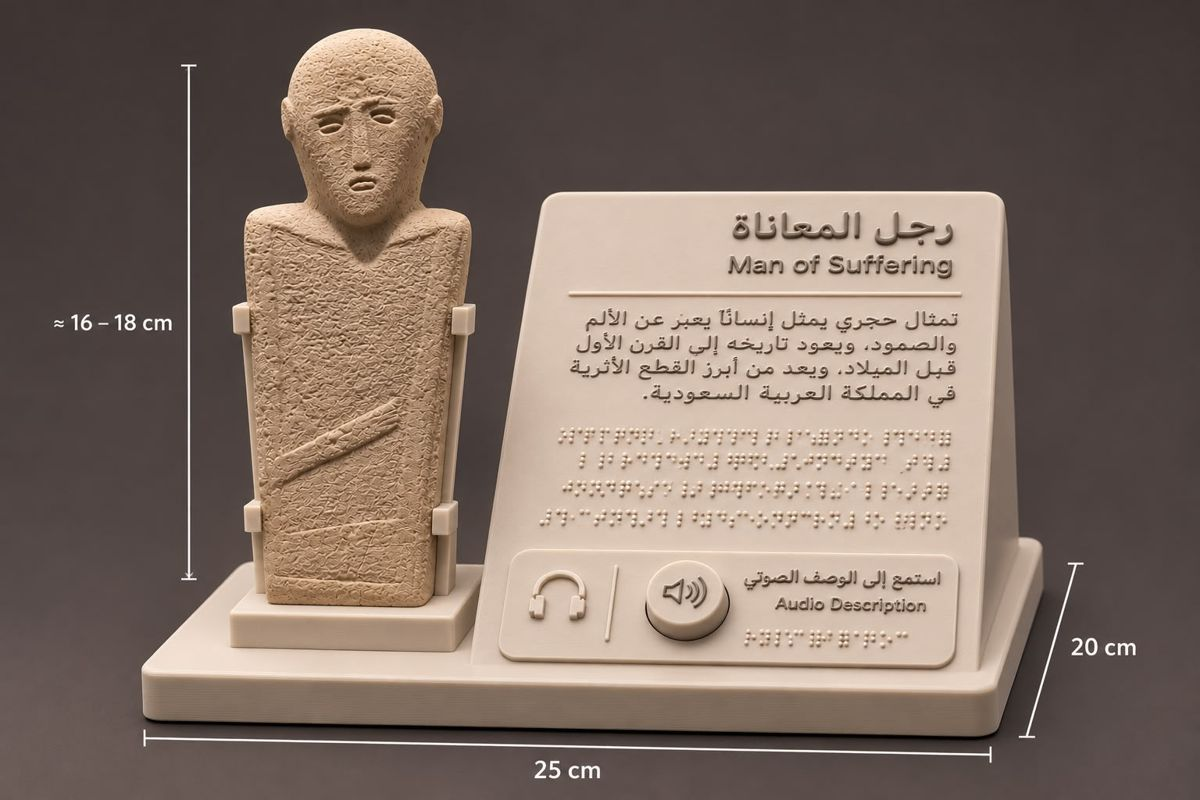
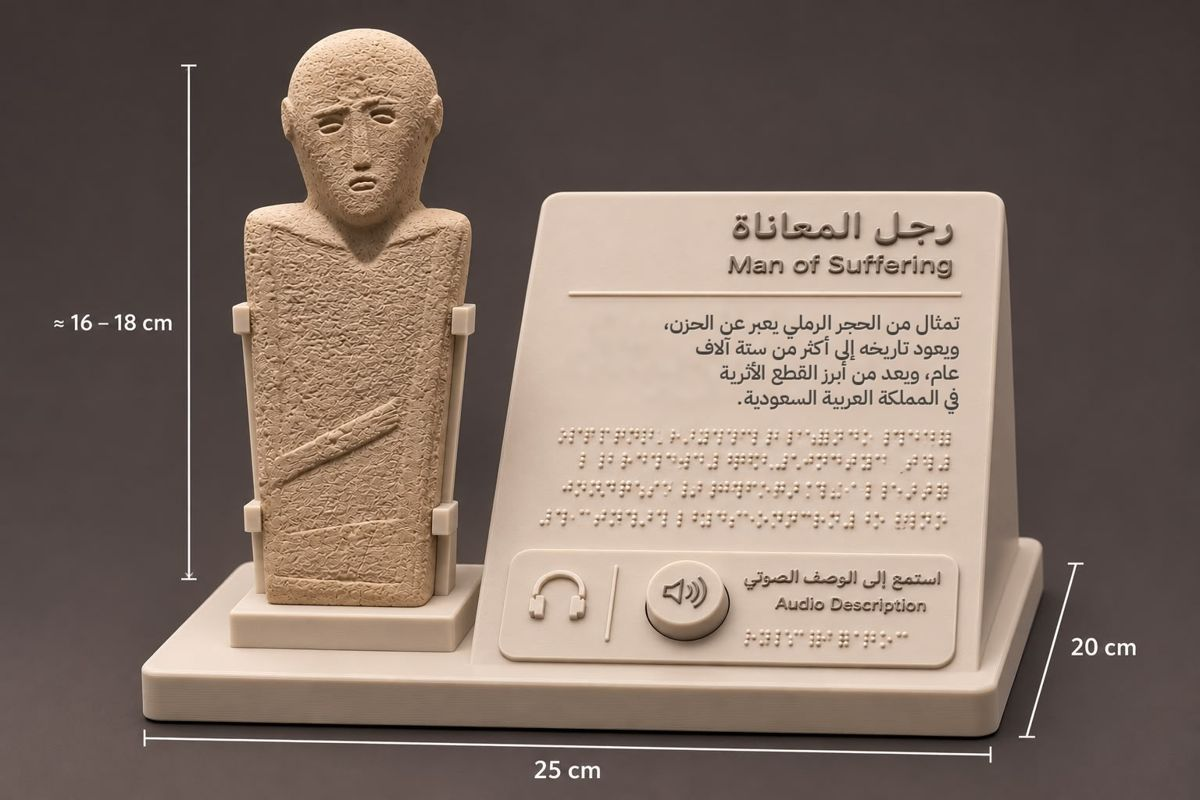
تصحيح تاريخ القطعة في نص اللوحة

Changed region(s): [[0.4625, 0.375, 0.8017, 0.5312]]

diff --git a/index.html b/index.html
@@ -171,7 +171,7 @@ body.rm *{transition:none!important;animation:none!important}
   <p>صمّم الفريق النموذج الحالي وطبعه بالطباعة ثلاثية الأبعاد: مجسم بارتفاع 18 سم على قاعدة 25 × 20 سم، ولوحة مائلة عليها نص عربي وسطور برايل، وزر واحد للوصف الصوتي.</p>
   <div class="photos">
     <figure class="photo"><img src="img/model.jpg" alt="النموذج الأولي المطبوع من الأمام: المجسم ولوحة الشرح وزر الوصف الصوتي" width="1200" height="800"><figcaption>النموذج المطبوع</figcaption></figure>
-    <figure class="photo"><img src="img/specs.jpg" alt="لوحة مواصفات النموذج: المقاسات وصور المجسم من جميع الجهات وتفاصيل الوجه وزر الوصف الصوتي" width="1200" height="800"><figcaption>لوحة المواصفات من تصميم الفريق، ونص اللوحة مسودة سنراجعها</figcaption></figure>
+    <figure class="photo"><img src="img/specs.jpg" alt="لوحة مواصفات النموذج: المقاسات وصور المجسم من جميع الجهات وتفاصيل الوجه وزر الوصف الصوتي" width="1200" height="800"><figcaption>لوحة المواصفات من تصميم الفريق</figcaption></figure>
   </div>
   <h2>جولة في لوحة المواصفات</h2>
   <p>اضغط «تشغيل» لتقترب الصورة من أجزاء النموذج واحدًا بعد آخر، مع جملة تشرح كل جزء. ويمكن التنقل بين الأجزاء بزري «السابق» و«التالي».</p>
@@ -219,7 +219,7 @@ body.rm *{transition:none!important;animation:none!important}
       <h2>الفكرة</h2>
       <p>مشروع ابتكار اجتماعي في مسار السياحة والتراث. نقترح فيه دليلًا يجمع اللمس والوصف الصوتي، لا يسمع فيه الزائر تفاصيل منطقة قبل أن يلمسها، وتُفتح له الملامح المنحوتة بعد أربع مناطق وسؤال قصير، ويستطيع أن يغيّر الترتيب متى شاء.</p>
       <h2>القطعة</h2>
-      <p>تمثال من الحجر الرملي عُثر عليه قرب بلدة الكهفة، على بعد نحو 200 كيلومتر جنوب حائل، ويُقدَّر عمره بأكثر من ستة آلاف عام (وكالة الأنباء السعودية، 2020). ولم نجد مصدرًا متحفيًا رسميًا يحدد تأريخه الدقيق أو مكان عرضه الحالي.</p>
+      <p>تمثال من الحجر الرملي عُثر عليه قرب بلدة الكهفة جنوب حائل، ويُقدَّر عمره بأكثر من ستة آلاف عام (وكالة الأنباء السعودية، 2020). ولم نجد مصدرًا متحفيًا رسميًا يحدد تأريخه الدقيق أو مكان عرضه الحالي.</p>
     </div>
     <div class="card">
       <h2>حدود هذه الصفحة</h2>
@@ -391,7 +391,7 @@ const TOUR=[
  {r:null, t:"النموذج الأولي", c:"النموذج الأولي لمحطة «بصيرة» كما صممه الفريق وطبعه بالطباعة ثلاثية الأبعاد.", d:5},
  {r:[38,13,384,550], t:"المجسم", c:"مجسم تمثال «رجل المعاناة» بارتفاع 18 سم، بملمس يحاكي الحجر الرملي.", d:5.5},
  {r:[190,30,160,165], t:"الوجه", c:"ملامح الوجه بارزة: العينان والأنف والفم، يتعرف عليها الزائر بأصابعه.", d:5.5},
- {r:[384,112,372,214], t:"لوحة الشرح", c:"لوحة مائلة عليها اسم القطعة ونبذة عنها بالعربية. والنص مسودة سنراجعها مع المتحف.", d:6},
+ {r:[384,112,372,214], t:"لوحة الشرح", c:"لوحة مائلة عليها اسم القطعة ونبذة عنها بالعربية، ومنها تاريخها: أكثر من ستة آلاف عام.", d:6},
  {r:[390,318,328,112], t:"برايل", c:"تحت النص سطور برايل، يقرأ منها الزائر الكفيف المعلومات الأساسية.", d:5.5},
  {r:[365,432,348,98], t:"زر الوصف الصوتي", c:"يضغط الزائر هذا الزر فيسمع وصف القطعة. وفي المحطة الكاملة تصبح الأزرار أربعة.", d:6},
  {r:[855,10,672,512], t:"المقاسات", c:"قاعدة 25 × 20 سم، ولوحة شرح مائلة بزاوية 70 درجة، وارتفاع كلي نحو 20 سم.", d:6},
